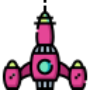
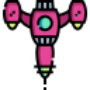
add one level

diff --git a/Levels.py b/Levels.py
@@ -192,7 +192,7 @@ def level7(level):
                     enemy = Enemy(random.randrange(50, WIDTH - 100), random.randrange(-2400, -1500), random.choice(["Enemy 7", "Enemy 3"]))
                     enemies.append(enemy)
                 for speical_amount in range(2):
-                    Speical_Enemy = Speical1(random.randrange(50, WIDTH - 100), random.randrange(-2200, -2000), random.choice(["Speical_Enemy"]))
+                    Speical_Enemy = Speical1(random.randrange(50, WIDTH - 100), random.randrange(-2200, -2000), random.choice(["Special_Enemy"]))
                     enemies.append(Speical_Enemy)
         for enemy in enemies:
             enemy.move(enemies_movement)
@@ -215,14 +215,51 @@ def level8(level):
     if level == 8:    
         if len(enemies) == 0:
                 for enemy_amount in range(wave1_length):
-                    enemy = Enemy(random.randrange(50, WIDTH - 100), random.randrange(-1400, -100), random.choice(["Enemy 7", "Enemy 6", "Enemy 4", "Enemy 2", ]))
+                    enemy = Enemy(random.randrange(50, WIDTH - 150), random.randrange(-1400, -100), random.choice(["Enemy 1", "Enemy 2", "Enemy 6", "Enemy 5", ]))
                     enemies.append(enemy)
                 for enemy_amount in range(wave2_length):
-                    enemy = Enemy(random.randrange(50, WIDTH - 100), random.randrange(-2000, -1400), random.choice(["Enemy 7", "Enemy 3"]))
+                    enemy = Enemy(random.randrange(50, WIDTH - 150), random.randrange(-2000, -1400), random.choice(["Enemy 8", "Enemy 4"]))
                     enemies.append(enemy)
                 for speical_amount in range(3):
-                    Speical_Enemy = Speical1(random.randrange(50, WIDTH - 100), random.randrange(-1800, -1600), random.choice(["Speical_Enemy"]))
+                    Speical_Enemy = Speical1(random.randrange(50, WIDTH - 100), random.randrange(-1800, -1600), random.choice(["Special_Enemy"]))
                     enemies.append(Speical_Enemy)
+        for enemy in enemies:
+            enemy.move(enemies_movement)
+            enemy.move_lasers(enemies_guns_speed, player)
+            if random.randrange(0, 120) == 1:
+                enemy.shoot()
+
+            if collide(enemy, player):
+                player.health -= 10
+                enemies.remove(enemy)
+            elif enemy.y + enemy.get_height() > HEIGHT:
+                enemies.remove(enemy)
+
+
+def level9(level):
+    global enemies
+    wave1_length = 8
+    wave2_length = 7
+    special_enemies = 3
+    special_enemie2 = 3
+
+    enemies_movement = 1.5
+    enemies_guns_speed = 4
+    if level == 9:    
+        if len(enemies) == 0:
+            for enemy_amount in range(wave1_length):
+                enemy = Enemy(random.randrange(50, WIDTH - 150), random.randrange(-1400, -100), random.choice(["Enemy 1", "Enemy 2", "Enemy 3", "Enemy 4", "Enemy 5", "Enemy 6", "Enemy 7", "Enemy 8",]))
+                enemies.append(enemy)
+            for enemy_amount in range(wave2_length):
+                enemy = Enemy(random.randrange(50, WIDTH - 150), random.randrange(-2000, -1000), random.choice(["Enemy 1", "Enemy 2", "Enemy 3", "Enemy 4", "Enemy 5", "Enemy 6", "Enemy 7", "Enemy 8",]))
+                enemies.append(enemy)
+            for enemy_amount in range(special_enemies):
+                enemy = Speical1(random.randrange(50, WIDTH - 150), random.randrange(-1700, -1500), random.choice(["Special_Enemy"]))
+                enemies.append(enemy)
+            for enemy_amount in range(special_enemie2):
+                enemy = Speical2(random.randrange(50, WIDTH - 150), random.randrange(-1800, -1700), random.choice(["Special_Enemy"]))
+                enemies.append(enemy)
+
         for enemy in enemies:
             enemy.move(enemies_movement)
             enemy.move_lasers(enemies_guns_speed, player)

diff --git a/Special_enimies.py b/Special_enimies.py
@@ -79,10 +79,75 @@ class SpeicalEnemies1:
             self.laser_countdown += 1
 
 
+class SpeicalEnemies2:
+    COOLDOWN = 10
+    def __init__(self, x, y, health=100):
+        self.x = x
+        self.y = y
+        self.health = health
+        self.ship_img = None
+        self.laser_img = None
+        self.lasers = []
+        self.laser_countdown = 0
+
+    def draw(self, window):
+        window.blit(self.ship_img,(self.x, self.y))
+        for laser in self.lasers:
+            laser.draw(window)
+    
+    def move_lasers(self, movement, Object):
+        self.cooldown()
+        for laser in self.lasers:
+            laser.move(movement)
+            if laser.off_screen(HEIGHT):
+                self.lasers.remove(laser)
+            elif laser.collision(Object):
+                Object.health -= 20
+                self.lasers.remove(laser)
+
+
+    def get_width(self):
+        return self.ship_img.get_width()
+
+    def get_height(self): 
+        return self.ship_img.get_height()
+
+    def shoot(self):
+        if self.laser_countdown == 0:
+            laser = Laser(self.x, self.y, self.laser_img)
+            self.lasers.append(laser)
+            self.laser_countdown = 1
+
+    def cooldown(self):
+        if self.laser_countdown >= self.COOLDOWN:
+            self.laser_countdown = 0
+        elif self.laser_countdown > 0:
+            self.laser_countdown += 1
+
+
 class Speical1(SpeicalEnemies1):
 
     COLOR_MAP = {
-            "Speical_Enemy": (SPEICAL_SHIP1, RED_lASER),
+            "Special_Enemy": (SPEICAL_SHIP1, RED_lASER),
+            }
+    def __init__(self, x, y, color, health=100):
+        super().__init__(x, y, health)
+        self.ship_img, self.laser_img = self.COLOR_MAP[color]
+        self. mask = pygame.mask.from_surface(self.ship_img)
+    
+    def move(self, movemoment):
+        self.y += movemoment
+
+    def shoot(self):
+        if self.laser_countdown == 0:
+            laser = Laser(self.x, self.y + 35, self.laser_img)
+            self.lasers.append(laser)
+            self.laser_countdown = 1
+
+class Speical2(SpeicalEnemies2):
+
+    COLOR_MAP = {
+            "Special_Enemy": (SPEICAL_SHIP4, RED_lASER),
             }
     def __init__(self, x, y, color, health=100):
         super().__init__(x, y, health)

diff --git a/SpaceShooterGame.py b/SpaceShooterGame.py
@@ -33,7 +33,7 @@ def StartGame():
     start_game = True
     lost_count = 0
     FPS = 60
-    level = 7
+    level = 8
 
     Clock = pygame.time.Clock()
     def redraw_window():
@@ -98,6 +98,8 @@ def StartGame():
             level7(level)
         if level == 8:
             level8(level)
+        if level == 9:
+            level9(level)
 
 def main_menu():
     title_font = pygame.font.SysFont("comicsans", 70)
